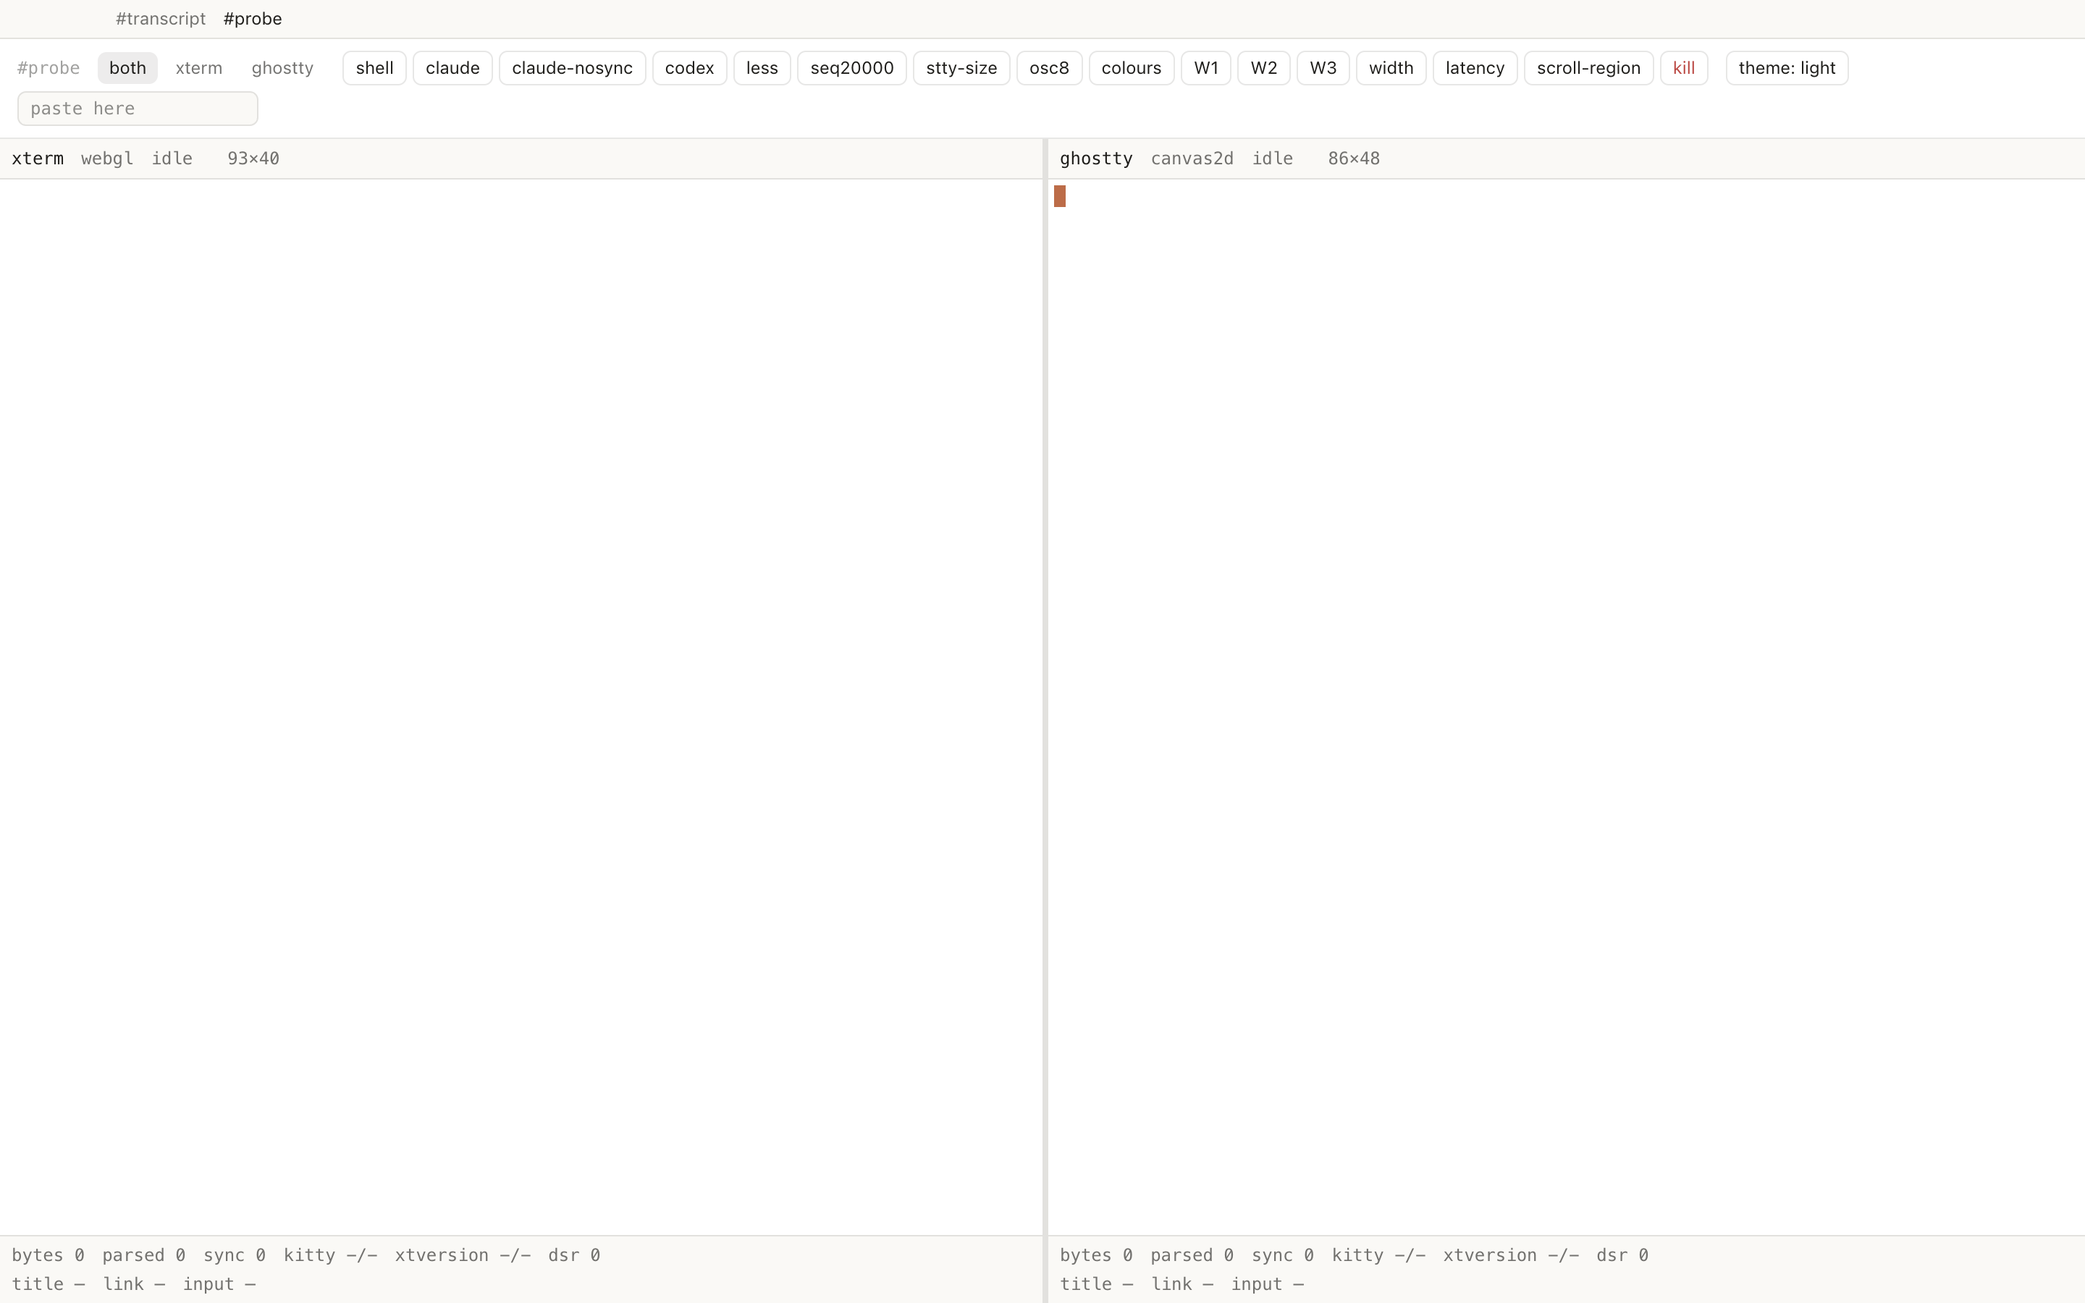
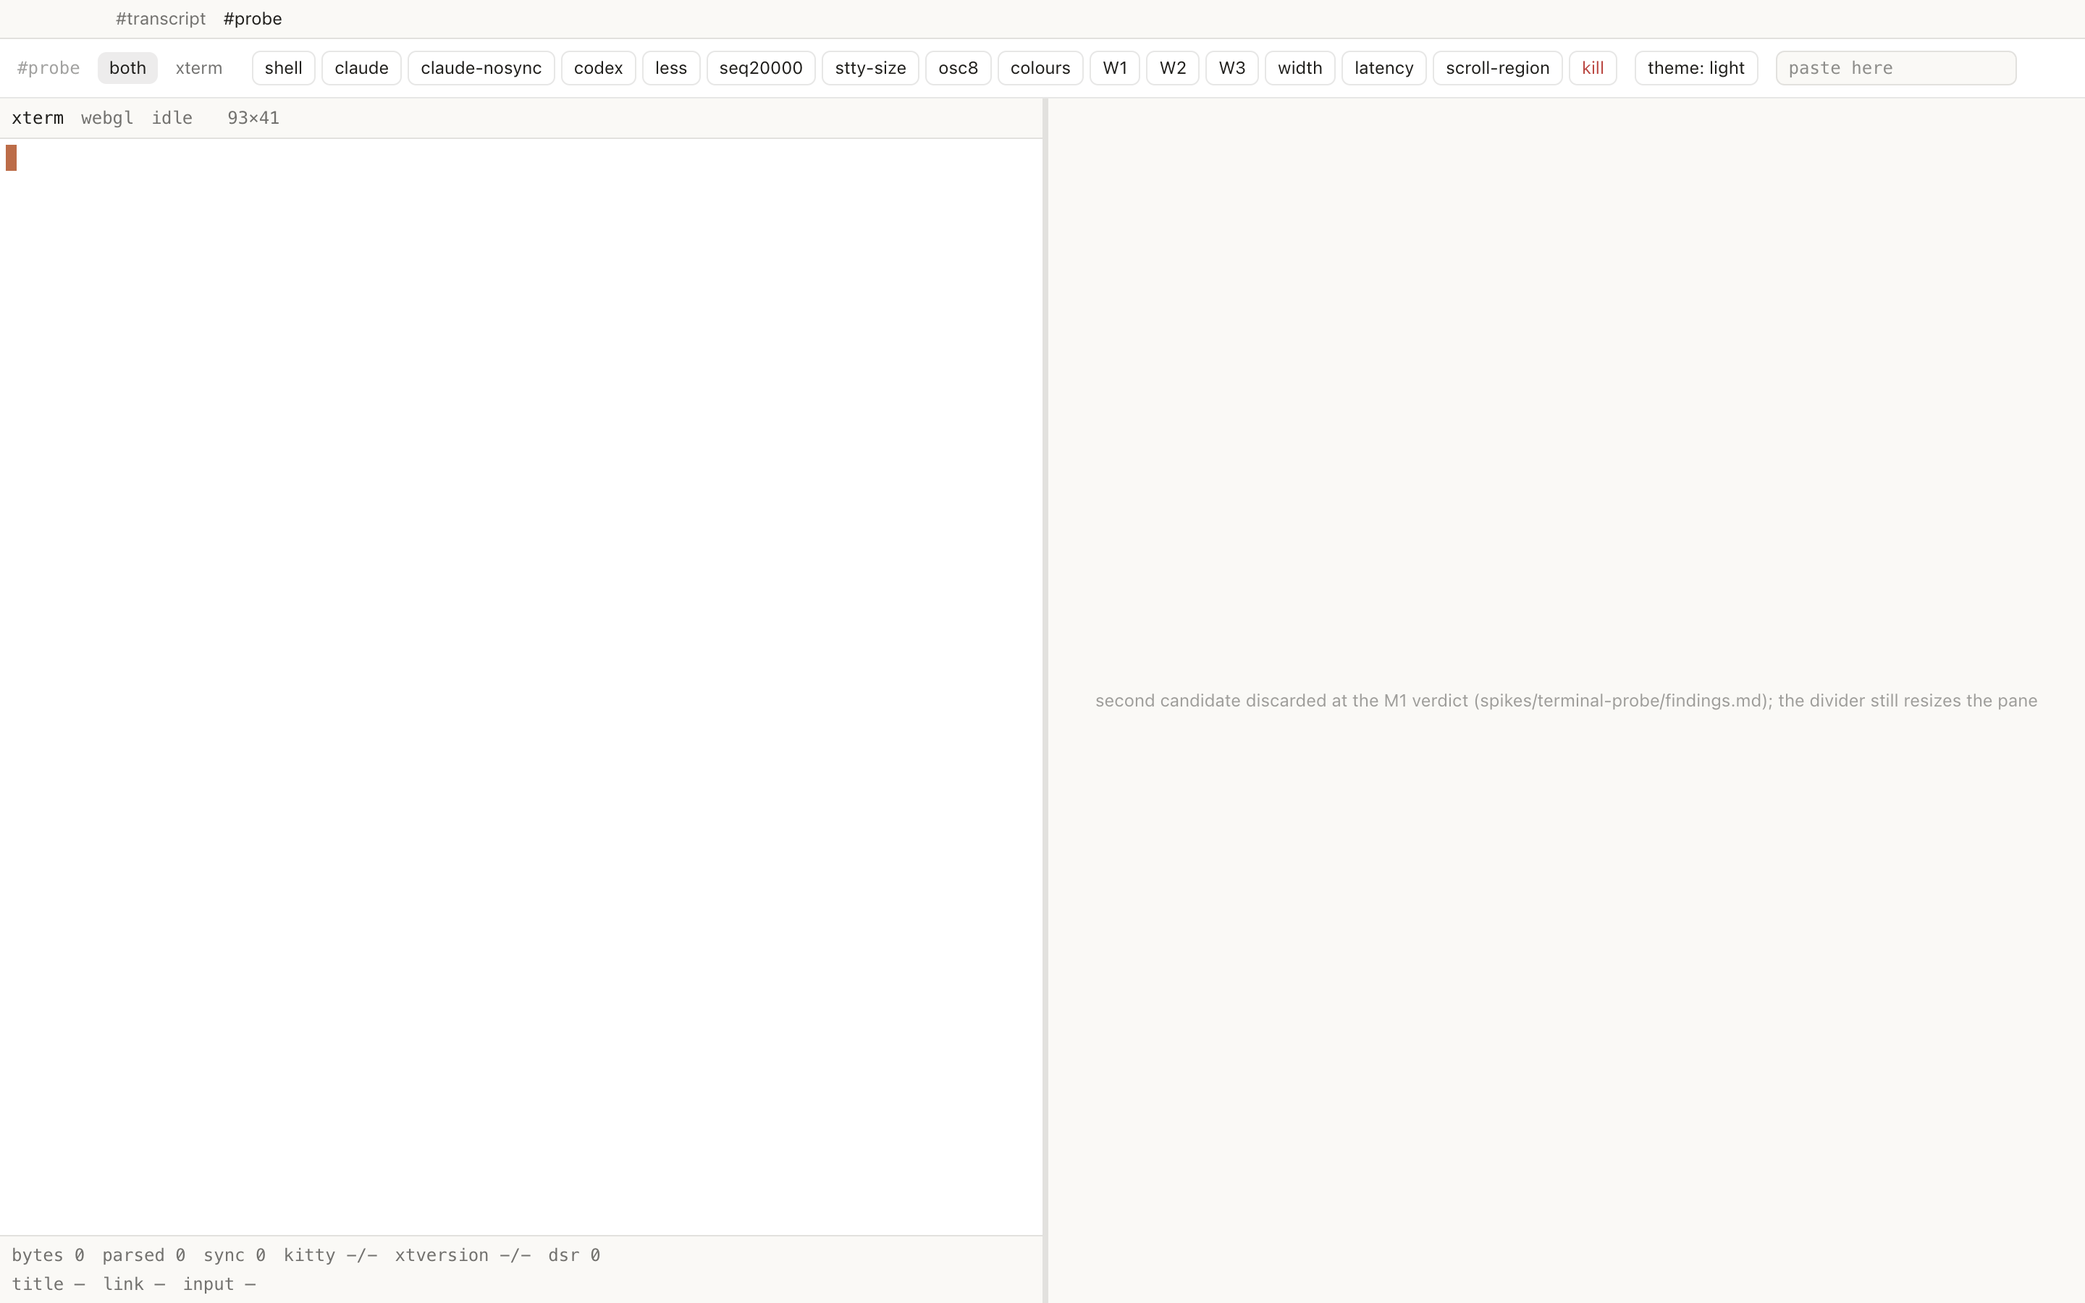
C9 M1 verdict: xterm.js ships; ghostty-web discarded (first renderer-item failure: scrollback), its adapter, dependency and harness CSP sources removed; probe page runs one candidate

diff --git a/src/renderer/src/harness/terminal/Probe.tsx b/src/renderer/src/harness/terminal/Probe.tsx
@@ -1,5 +1,6 @@
-// The `#probe` page (C9 M1, Interfaces *Harness*): two panes, each a `TerminalRenderer` (xterm.js left, ghostty-web
-// right) on its own pty, a workload bar, a metrics readout, a theme toggle and a paste field. Exposes
+// The `#probe` page (C9 M1, Interfaces *Harness*, kept as the performance harness): one pane per renderer candidate,
+// each a `TerminalRenderer` on its own pty (xterm.js since the M1 verdict; the right region held ghostty-web during
+// the spike), a workload bar, a metrics readout, a theme toggle and a paste field. Exposes
 // `window.__maws_harness.probe` for Playwright and `spikes/terminal-probe/run.mjs`. Tokens only (X7): every colour
 // here is a token utility; the terminals read the `--term-*` tokens through `theme.ts`.
 import { useEffect, useRef, useSyncExternalStore, type PointerEvent as ReactPointerEvent } from 'react';
@@ -20,10 +21,11 @@ import { readDocumentTheme } from '../../terminal/theme';
 import type { Metrics } from './metrics';
 import { Pane, type PaneDebug, type ProbeSnapshot } from './pane';
 
-const KINDS: RendererKind[] = ['xterm', 'ghostty'];
+// The candidates on the page; a second entry mounts a second pane on the right.
+const KINDS: RendererKind[] = ['xterm'];
 
 export interface ProbeApi {
-  ready(): Promise<Record<RendererKind, PaneDebug>>;
+  ready(): Promise<Partial<Record<RendererKind, PaneDebug>>>;
   run(workloadId: string, renderer: RendererKind, phase?: Phase): Promise<Metrics>;
   spawn(renderer: RendererKind, workloadId: string, phase?: Phase): Promise<{ ptyId: string; pid: number }>;
   type(renderer: RendererKind, data: string): Promise<void>;
@@ -54,7 +56,12 @@ function readFont(): TerminalFont {
 }
 
 // One set of panes per page, outside React: the emulators must survive re-renders and StrictMode's double mount.
-const panes: Record<RendererKind, Pane> = { xterm: new Pane('xterm', bins), ghostty: new Pane('ghostty', bins) };
+const panes = Object.fromEntries(KINDS.map((kind) => [kind, new Pane(kind, bins)])) as Partial<Record<RendererKind, Pane>>;
+const pane = (kind: RendererKind): Pane => {
+  const found = panes[kind];
+  if (!found) throw new Error(`${kind} is not a candidate on this page`);
+  return found;
+};
 const byPty = new Map<string, Pane>();
 let readyPromise: Promise<void> | null = null;
 
@@ -70,11 +77,11 @@ function start(): Promise<void> {
   // The terminals recolour when the document's theme attribute changes (the settings store sets it).
   new MutationObserver(() => {
     const theme = readDocumentTheme();
-    for (const pane of Object.values(panes)) pane.setTheme(theme);
+    for (const p of Object.values(panes)) p?.setTheme(theme);
   }).observe(document.documentElement, { attributes: true, attributeFilter: ['data-theme'] });
   const theme = readDocumentTheme();
   const font = readFont();
-  readyPromise = Promise.all(KINDS.map((kind) => panes[kind].create(theme, font))).then(() => {});
+  readyPromise = Promise.all(KINDS.map((kind) => pane(kind).create(theme, font))).then(() => {});
   return readyPromise;
 }
 
@@ -87,30 +94,30 @@ const programWorkload = (id: string): ProgramWorkload => {
 };
 
 const api: ProbeApi = {
-  ready: () => start().then(() => ({ xterm: panes.xterm.debug, ghostty: panes.ghostty.debug })),
-  run: (id, renderer, phase = 'm1') => panes[renderer].run(programWorkload(id), phase, claim(panes[renderer])),
-  spawn: (renderer, id, phase = 'm1') => panes[renderer].spawn(resolveProgram(programWorkload(id), phase, bins), claim(panes[renderer])),
-  type: (renderer, data) => panes[renderer].write(data),
-  kill: (renderer) => panes[renderer].kill(),
-  idle: (renderer, quietMs, maxMs) => panes[renderer].idle(quietMs, maxMs),
-  snapshot: (renderer, from, to) => panes[renderer].snapshot(from, to),
-  state: (renderer) => panes[renderer].debug,
-  focus: (renderer) => panes[renderer].focus(),
-  selection: (renderer) => panes[renderer].renderer?.getSelection() ?? '',
-  simulateContextLoss: (renderer) => panes[renderer].renderer?.simulateContextLoss?.(),
+  ready: () => start().then(() => Object.fromEntries(KINDS.map((kind) => [kind, pane(kind).debug]))),
+  run: (id, renderer, phase = 'm1') => pane(renderer).run(programWorkload(id), phase, claim(pane(renderer))),
+  spawn: (renderer, id, phase = 'm1') => pane(renderer).spawn(resolveProgram(programWorkload(id), phase, bins), claim(pane(renderer))),
+  type: (renderer, data) => pane(renderer).write(data),
+  kill: (renderer) => pane(renderer).kill(),
+  idle: (renderer, quietMs, maxMs) => pane(renderer).idle(quietMs, maxMs),
+  snapshot: (renderer, from, to) => pane(renderer).snapshot(from, to),
+  state: (renderer) => pane(renderer).debug,
+  focus: (renderer) => pane(renderer).focus(),
+  selection: (renderer) => pane(renderer).renderer?.getSelection() ?? '',
+  simulateContextLoss: (renderer) => pane(renderer).renderer?.simulateContextLoss?.(),
   // The drawn grid's box: the renderer's canvas when it has one (it need not fill the container), else the container.
   geometry(renderer) {
-    const element = panes[renderer].renderer?.element;
+    const element = pane(renderer).renderer?.element;
     if (!element) return null;
     const { x, y, width, height } = (element.querySelector('canvas') ?? element).getBoundingClientRect();
-    const { cols, rows } = panes[renderer].debug;
+    const { cols, rows } = pane(renderer).debug;
     return { x, y, width, height, cols, rows };
   },
   setSplit: (fraction) => useProbeStore.getState().setSplit(fraction),
-  setVisible: (renderer, visible) => panes[renderer].renderer?.setVisible(visible),
+  setVisible: (renderer, visible) => pane(renderer).renderer?.setVisible(visible),
   setBins: (next) => Object.assign(bins, next),
-  capture: (renderer, enabled) => panes[renderer].capture(enabled),
-  foreignCharacters: (renderer, allowed) => panes[renderer].foreignCharacters(new RegExp(allowed)),
+  capture: (renderer, enabled) => pane(renderer).capture(enabled),
+  foreignCharacters: (renderer, allowed) => pane(renderer).foreignCharacters(new RegExp(allowed)),
   screenshotReady: () => new Promise((resolve) => requestAnimationFrame(() => requestAnimationFrame(() => resolve()))),
 };
 
@@ -128,10 +135,10 @@ const useProbeStore = create<ProbeStore>()((set) => ({
 }));
 
 function usePaneDebug(kind: RendererKind): PaneDebug {
-  const pane = panes[kind];
+  const p = pane(kind);
   return useSyncExternalStore(
-    (cb) => pane.subscribe(cb),
-    () => pane.debug,
+    (cb) => p.subscribe(cb),
+    () => p.debug,
   );
 }
 
@@ -149,17 +156,17 @@ export function Probe() {
     void start();
   }, []);
 
-  const targets = (): RendererKind[] => (target === 'both' ? KINDS : [target]);
+  const targets = (): RendererKind[] => (target === 'both' ? KINDS : KINDS.filter((kind) => kind === target));
   const runWorkload = async (id: string) => {
     const workload = workloads[id]!;
     for (const kind of targets()) {
-      const pane = panes[kind];
+      const p = pane(kind);
       if (workload.kind === 'typed') {
-        await pane.write(workload.command).catch((error) => console.warn(`[probe] ${kind}: ${String(error)}`));
+        await p.write(workload.command).catch((error) => console.warn(`[probe] ${kind}: ${String(error)}`));
       } else if (workload.measure) {
-        void pane.run(workload, 'm1', claim(pane)).catch((error) => console.error(`[probe] ${kind} ${id} failed`, error));
+        void p.run(workload, 'm1', claim(p)).catch((error) => console.error(`[probe] ${kind} ${id} failed`, error));
       } else {
-        void pane.spawn(resolveProgram(workload, 'm1', bins), claim(pane)).catch((error) => console.error(`[probe] ${kind} ${id} failed`, error));
+        void p.spawn(resolveProgram(workload, 'm1', bins), claim(p)).catch((error) => console.error(`[probe] ${kind} ${id} failed`, error));
       }
     }
   };
@@ -185,7 +192,7 @@ export function Probe() {
       <header className="flex shrink-0 flex-wrap items-center gap-x-3 gap-y-1 border-b border-border bg-bg-raised px-3 py-2 text-ui-sm">
         <span className="font-mono text-fg-faint">#probe</span>
         <div role="group" aria-label="target" className="flex gap-1 [app-region:no-drag]">
-          {(['both', 'xterm', 'ghostty'] as const).map((value) => (
+          {(['both', ...KINDS] as const).map((value) => (
             <button
               key={value}
               type="button"
@@ -211,7 +218,7 @@ export function Probe() {
           ))}
           <button
             type="button"
-            onClick={() => targets().forEach((kind) => void panes[kind].kill())}
+            onClick={() => targets().forEach((kind) => void pane(kind).kill())}
             className="rounded-sm border border-border px-2 py-0.5 text-danger hover:bg-bg-hover"
           >
             kill
@@ -231,9 +238,15 @@ export function Probe() {
         />
       </header>
       <div ref={rowRef} className="flex min-h-0 flex-1">
-        <PaneView kind="xterm" style={{ flexBasis: `${split * 100}%` }} />
+        <PaneView kind={KINDS[0]!} style={{ flexBasis: `${split * 100}%` }} />
         <div role="separator" aria-orientation="vertical" onPointerDown={onDividerDown} className="w-1 shrink-0 cursor-col-resize bg-border hover:bg-border-strong" />
-        <PaneView kind="ghostty" style={{ flex: 1 }} />
+        {KINDS[1] ? (
+          <PaneView kind={KINDS[1]} style={{ flex: 1 }} />
+        ) : (
+          <section aria-label="second pane" className="flex min-w-0 flex-1 items-center justify-center text-ui-sm text-fg-faint">
+            second candidate discarded at the M1 verdict (spikes/terminal-probe/findings.md); the divider still resizes the pane
+          </section>
+        )}
       </div>
     </div>
   );
@@ -245,8 +258,8 @@ function PaneView({ kind, style }: { kind: RendererKind; style: React.CSSPropert
 
   useEffect(() => {
     const host = hostRef.current!;
-    panes[kind].mount(host);
-    return () => panes[kind].unmount();
+    pane(kind).mount(host);
+    return () => pane(kind).unmount();
   }, [kind]);
 
   return (

diff --git a/src/main/window.ts b/src/main/window.ts
@@ -2,7 +2,7 @@ import { mkdirSync } from 'node:fs';
 import { join } from 'node:path';
 import { pathToFileURL } from 'node:url';
 import { BrowserWindow, session } from 'electron';
-import { buildCsp, type ExtraCspSources } from './csp';
+import { buildCsp } from './csp';
 import type { ResolvedTheme } from './settings/store';
 
 // Each theme's `--bg` (X7), so the window's first frame and any area the page has not painted match the page.
@@ -21,10 +21,8 @@ const devPageUrl = devServerUrl ? new URL(pageFile, devServerUrl.endsWith('/') ?
 // What the app window loads; the IPC router accepts invokes only from a top frame at this URL's origin.
 export const appUrl = devPageUrl ?? pathToFileURL(rendererFile).href;
 
-// C9 block begin: the harness's extra CSP sources (ghostty-web's inlined WASM is fetched as a data: URL and compiled
-// in the page) and the fixed directories of its fake sessions (Interfaces *Harness*), created here because the
-// sandboxed page cannot.
-export const HARNESS_CSP_SOURCES: ExtraCspSources = { script: ["'wasm-unsafe-eval'"], connect: ['data:'] };
+// C9 block begin: the fixed directories of the harness's fake sessions (Interfaces *Harness*), created here because
+// the sandboxed page cannot. (The harness needed no CSP additions once ghostty-web was discarded at the M1 verdict.)
 export const HARNESS_SESSION_DIRS = ['/tmp/maws-harness/a', '/tmp/maws-harness/b'] as const;
 export function prepareHarness(): void {
   for (const dir of HARNESS_SESSION_DIRS) mkdirSync(dir, { recursive: true });
@@ -35,7 +33,7 @@ export function installContentSecurityPolicy(): void {
   if (devServerUrl && __MAWS_DEV_CSP_NONCE__ === null) {
     throw new Error('ELECTRON_RENDERER_URL is set but main was built without the dev CSP nonce');
   }
-  const csp = buildCsp(devServerUrl ? { nonce: __MAWS_DEV_CSP_NONCE__!, devServerUrl } : null, harness ? HARNESS_CSP_SOURCES : undefined);
+  const csp = buildCsp(devServerUrl ? { nonce: __MAWS_DEV_CSP_NONCE__!, devServerUrl } : null);
   session.defaultSession.webRequest.onHeadersReceived((details, callback) => {
     callback({ responseHeaders: { ...details.responseHeaders, 'Content-Security-Policy': [csp] } });
   });

diff --git a/src/renderer/src/terminal/renderer.ts b/src/renderer/src/terminal/renderer.ts
@@ -1,6 +1,7 @@
 // The renderer adapter (C9 Interfaces *Terminal renderer adapter*): the one interface behind which the terminal
-// emulator library sits. Two implementations exist during the spike (`xterm.ts`, `ghostty.ts`); the product ships
-// one and keeps the seam so a future libghostty package re-runs the same spike without touching the tool.
+// emulator library sits. The spike (M1) ran xterm.js and ghostty-web behind it; ghostty-web was discarded at the M1
+// verdict (`spikes/terminal-probe/findings.md`, first failure: scrollback) and its adapter deleted. The `ghostty`
+// kind stays in the seam so a maintained libghostty package can re-run the same spike without touching the tool.
 
 export type RendererKind = 'xterm' | 'ghostty';
 export type Acceleration = 'webgl' | 'dom' | 'canvas2d';
@@ -75,14 +76,14 @@ export interface RendererOptions {
   webgl: boolean;
 }
 
-// Async because ghostty-web needs its WASM initialised; the adapters are loaded lazily so a page that never asks for
-// one never pays for its bundle.
+// Async because a WASM-backed candidate needs its module initialised; the adapter is loaded lazily so a page that
+// never asks for one never pays for its bundle.
 export async function createRenderer(kind: RendererKind, opts: RendererOptions): Promise<TerminalRenderer> {
   switch (kind) {
     case 'xterm':
       return (await import('./xterm')).createXtermRenderer(opts);
     case 'ghostty':
-      return (await import('./ghostty')).createGhosttyRenderer(opts);
+      throw new Error('ghostty-web was discarded at the M1 verdict (spikes/terminal-probe/findings.md); no adapter is installed');
   }
 }
 

diff --git a/src/main/csp.ts b/src/main/csp.ts
@@ -2,19 +2,11 @@
 // Production: no inline script, no remote anything; inline styles are allowed for Tailwind.
 // Development: the same policy plus the per-launch nonce electron.vite.config.ts stamps on the dev server's
 // script tags (the React fast-refresh preamble is inline) and the dev server's HMR socket.
-// The harness (C9) may append extra sources to script-src and connect-src; the app page never does.
 
 export interface DevServerCsp {
   nonce: string;
   devServerUrl: string;
 }
-
-// C9 block begin: harness-only sources the builder appends (ghostty-web's WASM; removed with the candidate)
-export interface ExtraCspSources {
-  script: string[];
-  connect: string[];
-}
-// C9 block end
 
 const directives = (script: string[], connect: string[]) => [
   ['default-src', "'self'"],
@@ -29,8 +21,8 @@ const serialize = (list: string[][]) => list.map((d) => d.join(' ')).join('; ');
 
 export const PRODUCTION_CSP = serialize(directives([], []));
 
-export function buildCsp(dev: DevServerCsp | null, extra: ExtraCspSources = { script: [], connect: [] }): string {
-  if (!dev) return serialize(directives(extra.script, extra.connect));
+export function buildCsp(dev: DevServerCsp | null): string {
+  if (!dev) return PRODUCTION_CSP;
   const { host } = new URL(dev.devServerUrl);
-  return serialize(directives([`'nonce-${dev.nonce}'`, ...extra.script], [`ws://${host}`, ...extra.connect]));
+  return serialize(directives([`'nonce-${dev.nonce}'`], [`ws://${host}`]));
 }

diff --git a/src/main/csp.test.ts b/src/main/csp.test.ts
@@ -28,20 +28,6 @@ describe('content security policy', () => {
     expect(withNonce).toEqual(['script-src']);
   });
 
-  // carried by C9: the harness-only sources (wasm for ghostty-web, its inlined WASM fetched as a data: URL)
-  it('appends extra script and connect sources after the base and dev entries, production and development alike', () => {
-    const extra = { script: ["'wasm-unsafe-eval'"], connect: ['data:'] };
-    expect(directives(buildCsp(null, extra))).toMatchObject({
-      'script-src': ["'self'", "'wasm-unsafe-eval'"],
-      'connect-src': ["'self'", 'data:'],
-    });
-    expect(directives(buildCsp({ nonce: 'N', devServerUrl: 'http://localhost:5173' }, extra))).toMatchObject({
-      'script-src': ["'self'", "'nonce-N'", "'wasm-unsafe-eval'"],
-      'connect-src': ["'self'", 'ws://localhost:5173', 'data:'],
-    });
-    expect(buildCsp(null, { script: [], connect: [] })).toBe(PRODUCTION_CSP);
-  });
-
   it('takes the socket host and port from the dev server URL', () => {
     const csp = buildCsp({ nonce: 'abc+/=', devServerUrl: 'http://127.0.0.1:5174/' });
     expect(directives(csp)['connect-src']).toEqual(["'self'", 'ws://127.0.0.1:5174']);

diff --git a/spikes/terminal-probe/README.md b/spikes/terminal-probe/README.md
@@ -1,9 +1,11 @@
 # Terminal probe (C9 M1 spike, kept as the performance harness)
 
 Child C9 of `docs/charter.md` (§7.2, C9 G1); execution document `docs/doperpowers/plans/2026-09-28-c9-terminal.md`.
-Both renderer candidates (`@xterm/xterm` 6.0.0 with the WebGL addon, `ghostty-web` 0.4.0-next.20.g1858a59) sit behind
+Both renderer candidates (`@xterm/xterm` 6.0.0 with the WebGL addon, `ghostty-web` 0.4.0-next.20.g1858a59) sat behind
 one adapter (`src/renderer/src/terminal/renderer.ts`) on the `#probe` page of the harness, each on its own pty, under
-the real `claude` and `codex` interfaces. `findings.md` is the verdict document.
+the real `claude` and `codex` interfaces. `findings.md` is the verdict document: ghostty-web was discarded at the M1
+verdict and its adapter and dependency removed; the page now runs the surviving candidate (`KINDS` in `Probe.tsx`)
+and a second entry there re-opens the second pane for a future candidate.
 
 ## Run
 
